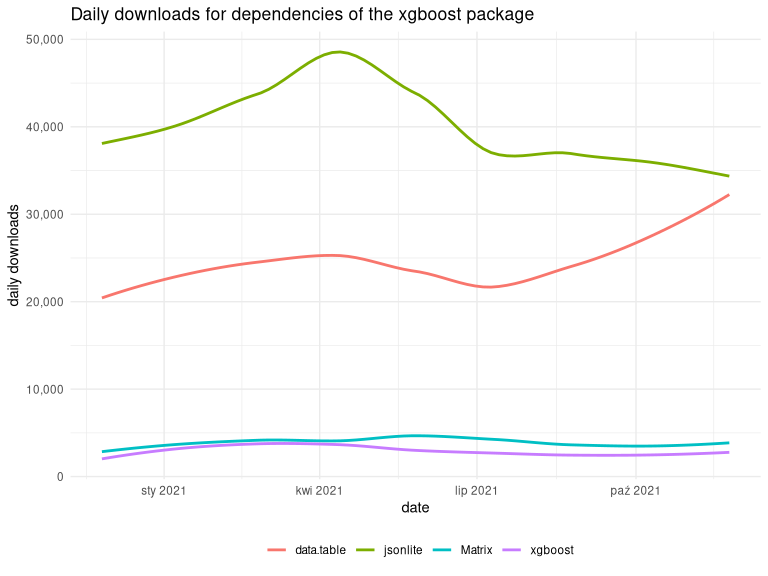
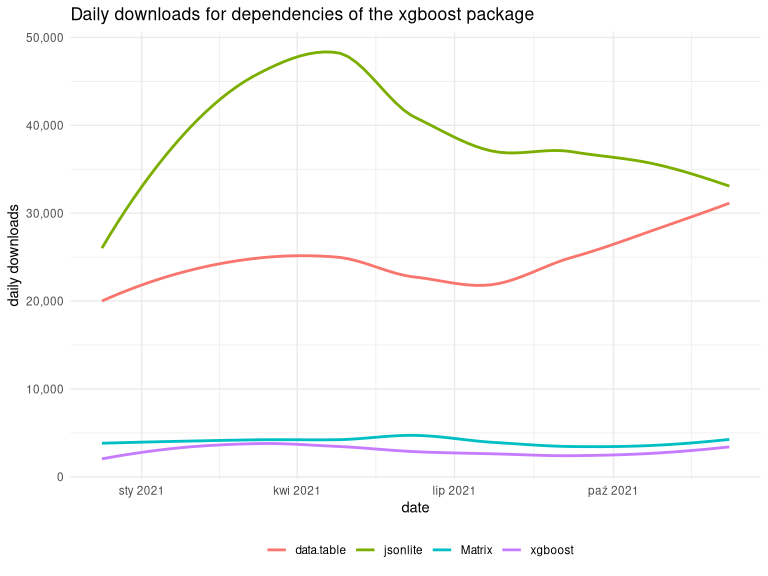
rebuild readme

diff --git a/README.md b/README.md
@@ -88,9 +88,9 @@ head(dd_xgboost)
 ```
 
     ##    origin       name  version    type last_day last_week last_month last_quarter last_half grand_total origin_level dest_level
-    ## 1 xgboost     Matrix >= 1.1-0 Imports     5292     24255     116117       319444    699620     6763598            0          1
-    ## 2 xgboost data.table >= 1.9.6 Imports    30322    172075     873893      2604813   4602894    31003939            0          1
-    ## 3 xgboost   jsonlite   >= 1.0 Imports    36532    205945     995455      3505752   6779668    51193351            0          1
+    ## 1 xgboost     Matrix >= 1.1-0 Imports     4454     24384     120814       335932    676904     6818520            0          1
+    ## 2 xgboost data.table >= 1.9.6 Imports    35829    203788     847404      2665713   4659980    31369324            0          1
+    ## 3 xgboost   jsonlite   >= 1.0 Imports    36025    246923    1005752      3362575   6707399    51638636            0          1
 
 ``` r
 plot_downloads(dd_xgboost)
